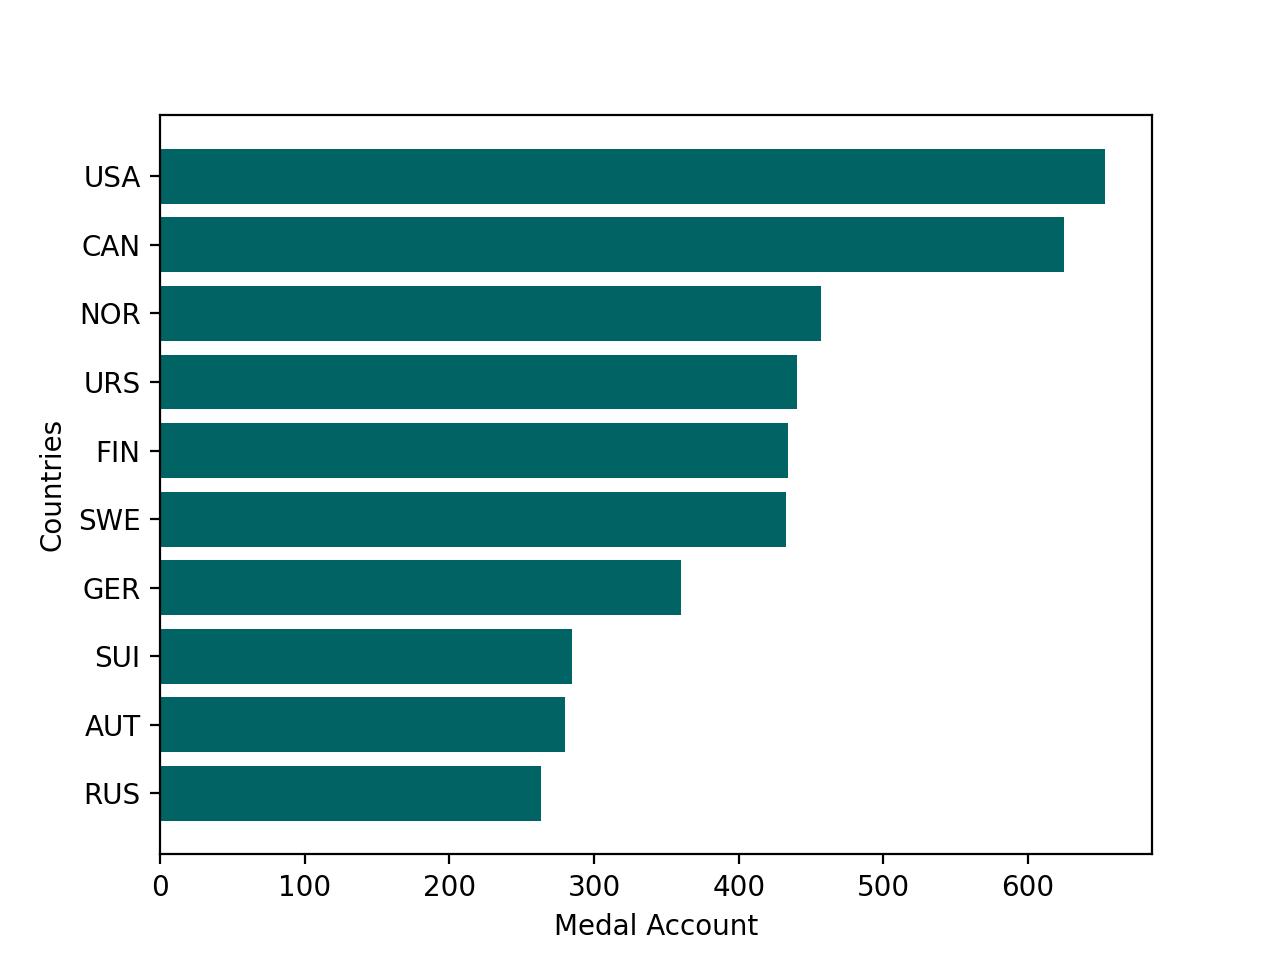
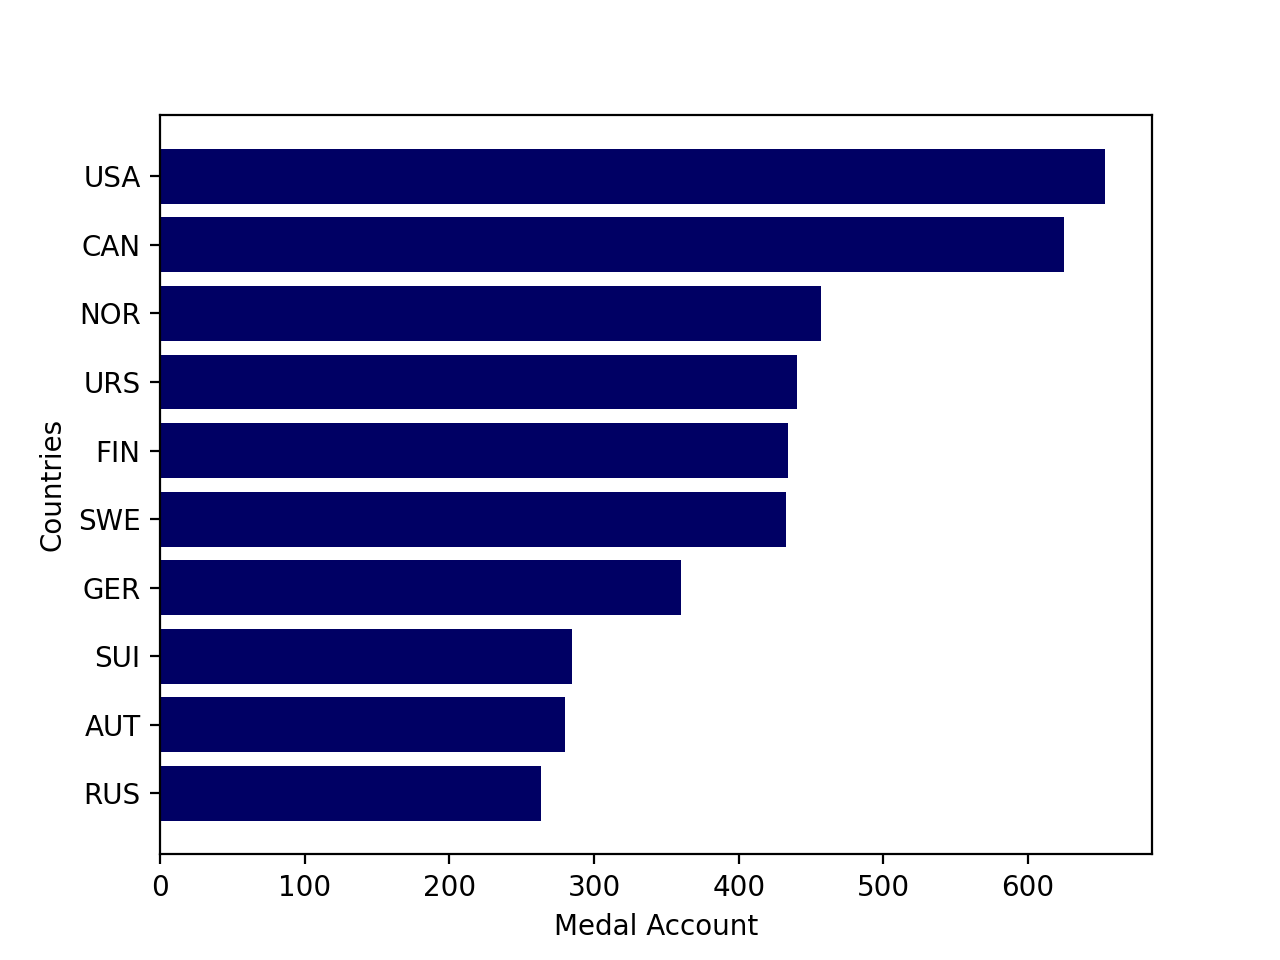
middle part end

Changed region(s): [[0.125, 0.1562, 0.875, 0.875]]

diff --git a/index.html b/index.html
@@ -30,78 +30,59 @@
 			<h1 class="hidden">Division of countries by continent</h1>
 			<h2 class="subhead">Division of countries by continent</h2>
 
-			<img class="data-img" src="images/world_pop.png" alt="world pop chart">
-			<img class="data-img" src="images/world_pop.png" alt="world pop chart">
-			<img class="data-img" src="images/world_pop.png" alt="world pop chart">
-			<p>Top 10 countries were divided by continent.<br>
-			America, Europe and Eurasia. 
+			<img class="data-img2" src="images/cont_america.png" alt="america ratio">
+			<img class="data-img2" src="images/cont_europe.png" alt="eurasia ratio">
+			<img class="data-img2" src="images/cont_eurasia.png" alt="europe ratio">
+			<p>Top 10 countries were divided into America, Europe and Eurasia. <br>America included two countires; USA and CAN. Europe included totally six countries; NOR, FIN, SWE, GER, SUI and AUT. Eurasia included last two countries; URS and RUS. <br> By a small gap, the United States won more medals in America, Norway showed the largest number in Europe, and the Soviet Union had more medals in Eurasia.
 			</p>
 		</section>
 
 
 
 		<section class="argument">
-			<h1 class="hidden">Top 3 countries/h1>
-			<h2 class="subhead">Top 3 countries</h2>
+			<h1 class="hidden">Top 3 countries/<h1>
+			<h2 class="subhead">Top 3 countries devided by gender </h2>
 
-			<img class="data-img" src="images/world_pop.png" alt="world pop chart">
-			<p></p>
+			<img class="data-img" src="images/top3_gender.png" alt="top3 gender ratio">
+
+			<p>The proportion of men is much higher than women in all countries</p>
 		</section>
 
 		<section class="argument">
-			<h1 class="hidden">Top 3 countries with ratio of medal types</h1>
-			<h2 class="subhead">Top 3 countries with ratio of medal types</h2>
+			<h1 class="hidden">Top 3 countries with edal types</h1>
+			<h2 class="subhead">Top 3 countries with medal types</h2>
 
-			<img class="data-img" src="images/world_pop.png" alt="world pop chart">
-			<img class="data-img" src="images/world_pop.png" alt="world pop chart">
-			<img class="data-img" src="images/world_pop.png" alt="world pop chart">
-			<p></p>
-		</section>
-
-		<section class="argument">
-			<h1 class="hidden">Period</h1>
-			<h2 class="subhead">Period Analyze</h2>
-
-			<img class="data-img" src="images/world_pop.png" alt="world pop chart">
-			<img class="data-img" src="images/world_pop.png" alt="world pop chart">
-			<img class="data-img" src="images/world_pop.png" alt="world pop chart">
-			<p></p>
+			<img class="data-img" src="images/top3_types.png" alt="world pop chart">
+			<p>United States has more medals in total, but Canada has more gold medals. United States has the highest number of silver and bronze medals.</p>
 		</section>
 
 		<section class="argument">
 			<h1 class="hidden">South Korea</h1>
 			<h2 class="subhead">South Korea Analyze</h2>
 
-			<img class="data-img" src="images/world_pop.png" alt="world pop chart">
-			<p></p>
+			<img class="data-img" src="images/kor_gsb.png" alt="medal types">
 		</section>
 		<section class="argument">
 			<h1 class="hidden">South Korea</h1>
 			<h2 class="subhead">South Korea : Individual vs Team</h2>
 
-			<img class="data-img" src="images/world_pop.png" alt="world pop chart">
-			<p></p>
+			<img class="data-img" src="images/kor_team.png" alt="event types">
+			<p>Team events included relay sports and team pursuit, individual event involved with 150m to 10000m of skating. It records similar amount; 44 medals with team, 43 medals with individual. </p>
 		</section>
 		<section class="argument">
 			<h1 class="hidden">South Korea</h1>
 			<h2 class="subhead">South Korea : Gender</h2>
 
-			<img class="data-img" src="images/world_pop.png" alt="world pop chart">
-			<p></p>
+			<img class="data-img" src="images/kor_gender.png" alt="gender ratio">
+			<p>Otherwise top3 countries, it shows a higher proportion of women. </p>
 		</section>
-		<section class="argument">
-			<h1 class="hidden">South Korea</h1>
-			<h2 class="subhead">South Korea : Medal types</h2>
 
-			<img class="data-img" src="images/world_pop.png" alt="world pop chart">
-			<p></p>
-		</section>
 		<section class="argument">
 			<h1 class="hidden">South Korea</h1>
 			<h2 class="subhead">South Korea : Period</h2>
 
-			<img class="data-img" src="images/world_pop.png" alt="world pop chart">
-			<p></p>
+			<img class="data-img" src="images/kor_period.png" alt="growth line in period">
+			<p>It recorded the lowest number in 1992 and 2002 with 7 medals, but it had a highest amount in 2006 with 19 medals. </p>
 		</section>
 
 
@@ -111,7 +92,7 @@
 
 				<section class="argument">
 				<h1 class="hidden">Nearest countires</h1>
-				<h2 class="subhead">Canada and USA </h2>
+				<h2 class="subhead">Kazakhstan and Uzebekistan </h2>
 				<img class="data-img" src="images/world_pop.png" alt="world pop chart">
 				<p></p>
 				</section>
@@ -132,7 +113,7 @@
 
 				<section class="argument">
 				<h1 class="hidden">Nearest countires</h1>
-				<h2 class="subhead">Italy, Spai, and France</h2>
+				<h2 class="subhead">Italy, Spain, and France</h2>
 				<img class="data-img" src="images/world_pop.png" alt="world pop chart">
 				<p></p>
 				</section>

diff --git a/css/main.css b/css/main.css
@@ -26,4 +26,5 @@ body {
 }
 
 .data-img { width: 60%; max-width: 100%; }
+.data-img2 {width: 48%; max-width: 100%; }
 

diff --git a/data/top3_gsb.py b/data/top3_gsb.py
@@ -1,0 +1,20 @@
+import numpy as np
+import matplotlib.pyplot as plt
+
+n = 3
+gold= (167, 315, 159)
+silver= (319, 203, 171)
+bronze = (167,107,127)
+fig, ax = plt.subplots()
+index = np.arange(n)
+bar_width = 0.3
+ax.bar(index, gold, bar_width, color='#C49C48',label='Gold')
+ax.bar(index+bar_width, silver, bar_width, color='#C0C0C0',label='Silver')
+ax.bar(index+2*bar_width, bronze, bar_width, color='#A97142', label='Bronze')
+ax.set_xlabel('Countries')
+ax.set_ylabel('Medal Account')
+ax.set_title('MEDAL TYPES', pad=20)
+ax.set_xticks(index + bar_width)
+ax.set_xticklabels(('USA','CAN','NOR'))
+ax.legend()
+plt.show()

diff --git a/data/continent_europe.py b/data/continent_europe.py
@@ -1,0 +1,12 @@
+import matplotlib.pyplot as plt
+
+values = [457, 280, 285, 433, 360, 434]
+labels = ["Norway", "Austria", "Switzerland", "Sweden", "Germany", "Finland"]
+colors = ['#992B89','#A54C99', "#BA65AE", "#D388C8", "#EAACE1", "#FCCDF5"]
+
+explode = [0.1, 0.1, 0.1, 0.1, 0.1, 0.1]
+
+plt.pie(values, labels=labels, colors=colors, explode = explode,  startangle=90, autopct='%.1f%%' )
+plt.title("EUROPE", pad=10)
+# generate the chart
+plt.show()

diff --git a/data/top10.py b/data/top10.py
@@ -4,7 +4,7 @@ import numpy as np
 countries = np.array(['RUS', 'AUT', 'SUI', 'GER', 'SWE', 'FIN', 'URS', 'NOR', 'CAN', 'USA'])
 account = np.array([263, 280, 285, 360, 433, 434, 440, 457, 625, 653 ])
 
-plt.barh(countries, account, color=(0/255, 100/255, 100/255), linewidth = 0.2)
+plt.barh(countries, account, color=(0/255, 0/255, 100/255), linewidth = 0.2)
 plt.ylabel("Countries")
 plt.xlabel("Medal Account")
 plt.show()

diff --git a/data/top3_gender.py b/data/top3_gender.py
@@ -1,0 +1,18 @@
+import matplotlib.pyplot as plt
+
+
+labels = ['USA', 'CAN', 'NOR']
+men = [410, 286, 359]
+women= [243, 239, 98]
+width = [0.35]     
+
+
+plt.bar(labels, men, width=width, label='Men', color="#738EA8")
+plt.bar(labels, women, width=width,  bottom=men, label='Women', color="#A6BDD1")
+
+plt.ylabel('Medal Account')
+plt.xlabel('Countries')
+plt.title('GENDER RATIO', pad=20)
+plt.legend()
+
+plt.show()

diff --git a/data/continent_america.py b/data/continent_america.py
@@ -1,0 +1,13 @@
+import matplotlib.pyplot as plt
+
+values = [653, 625]
+labels = ["United States", "Canada"]
+colors = ["#98B0E2", "#687EAA"]
+
+explode = [0.1, 0.1]
+
+plt.pie(values, labels=labels, colors=colors, explode = explode,  startangle=90, autopct='%.1f%%' )
+
+plt.title("AMERICA", pad=10)
+# generate the chart
+plt.show()

diff --git a/data/continent_eurasia.py b/data/continent_eurasia.py
@@ -1,0 +1,12 @@
+import matplotlib.pyplot as plt
+
+values = [440, 263]
+labels = ["Soviet Union", "Russia"]
+colors = ['#EAE38C','#CEC87E']
+
+explode = [0.1, 0.1]
+
+plt.pie(values, labels=labels, colors=colors, explode = explode,  startangle=90, autopct='%.1f%%' )
+plt.title("EURASIA", pad=10)
+# generate the chart
+plt.show()

diff --git a/data/kor_team.py b/data/kor_team.py
@@ -1,0 +1,12 @@
+import matplotlib.pyplot as plt
+import numpy as np
+
+types = np.array(["Team", "Individual"])
+account = np.array([44, 43])
+
+plt.barh(types, account, color="#DB9F93", linewidth="2.0")
+
+plt.ylabel("Types of event")
+plt.xlabel("Total Account")
+plt.title("Team event vs Individual event", pad=20)
+plt.show()

diff --git a/data/kor_gender.py b/data/kor_gender.py
@@ -1,0 +1,12 @@
+import matplotlib.pyplot as plt
+
+values = [42, 45]
+labels = ["Men", "Women"]
+colors = ["#F9C9C2", "#FF7F6E"]
+
+explode = (0,0.2)
+
+plt.pie(values, labels=labels, colors=colors, explode = explode,  startangle=90, shadow = True, autopct='%.1f%%')
+
+plt.title("Gender ratio", pad=10)
+plt.show()

diff --git a/data/kor_period.py b/data/kor_period.py
@@ -1,0 +1,15 @@
+import matplotlib.pyplot as plt
+
+years = [1992, 1994, 1998, 2002, 2006, 2010, 2014]
+
+awards = [7,10,12,7,19,18,14]
+
+plt.plot(years, awards, color="#A33D2F", linewidth=3.0)
+
+# add some labels
+plt.ylabel("Awards")
+plt.xlabel("Years")
+plt.title("Period records", pad=20)
+
+plt.show()
+

diff --git a/data/kor_gsb.py b/data/kor_gsb.py
@@ -1,0 +1,11 @@
+import matplotlib.pyplot as plt
+import numpy as np
+
+medal = np.array(["Gold", "Silver", "Bronze"])
+account = np.array([51, 26, 10])
+
+plt.bar(medal, account, color="#CE5A4A", linewidth="2.0")
+plt.ylabel('Account')
+plt.xlabel('Medal Types')
+plt.title('Medal types', pad=20)
+plt.show()
